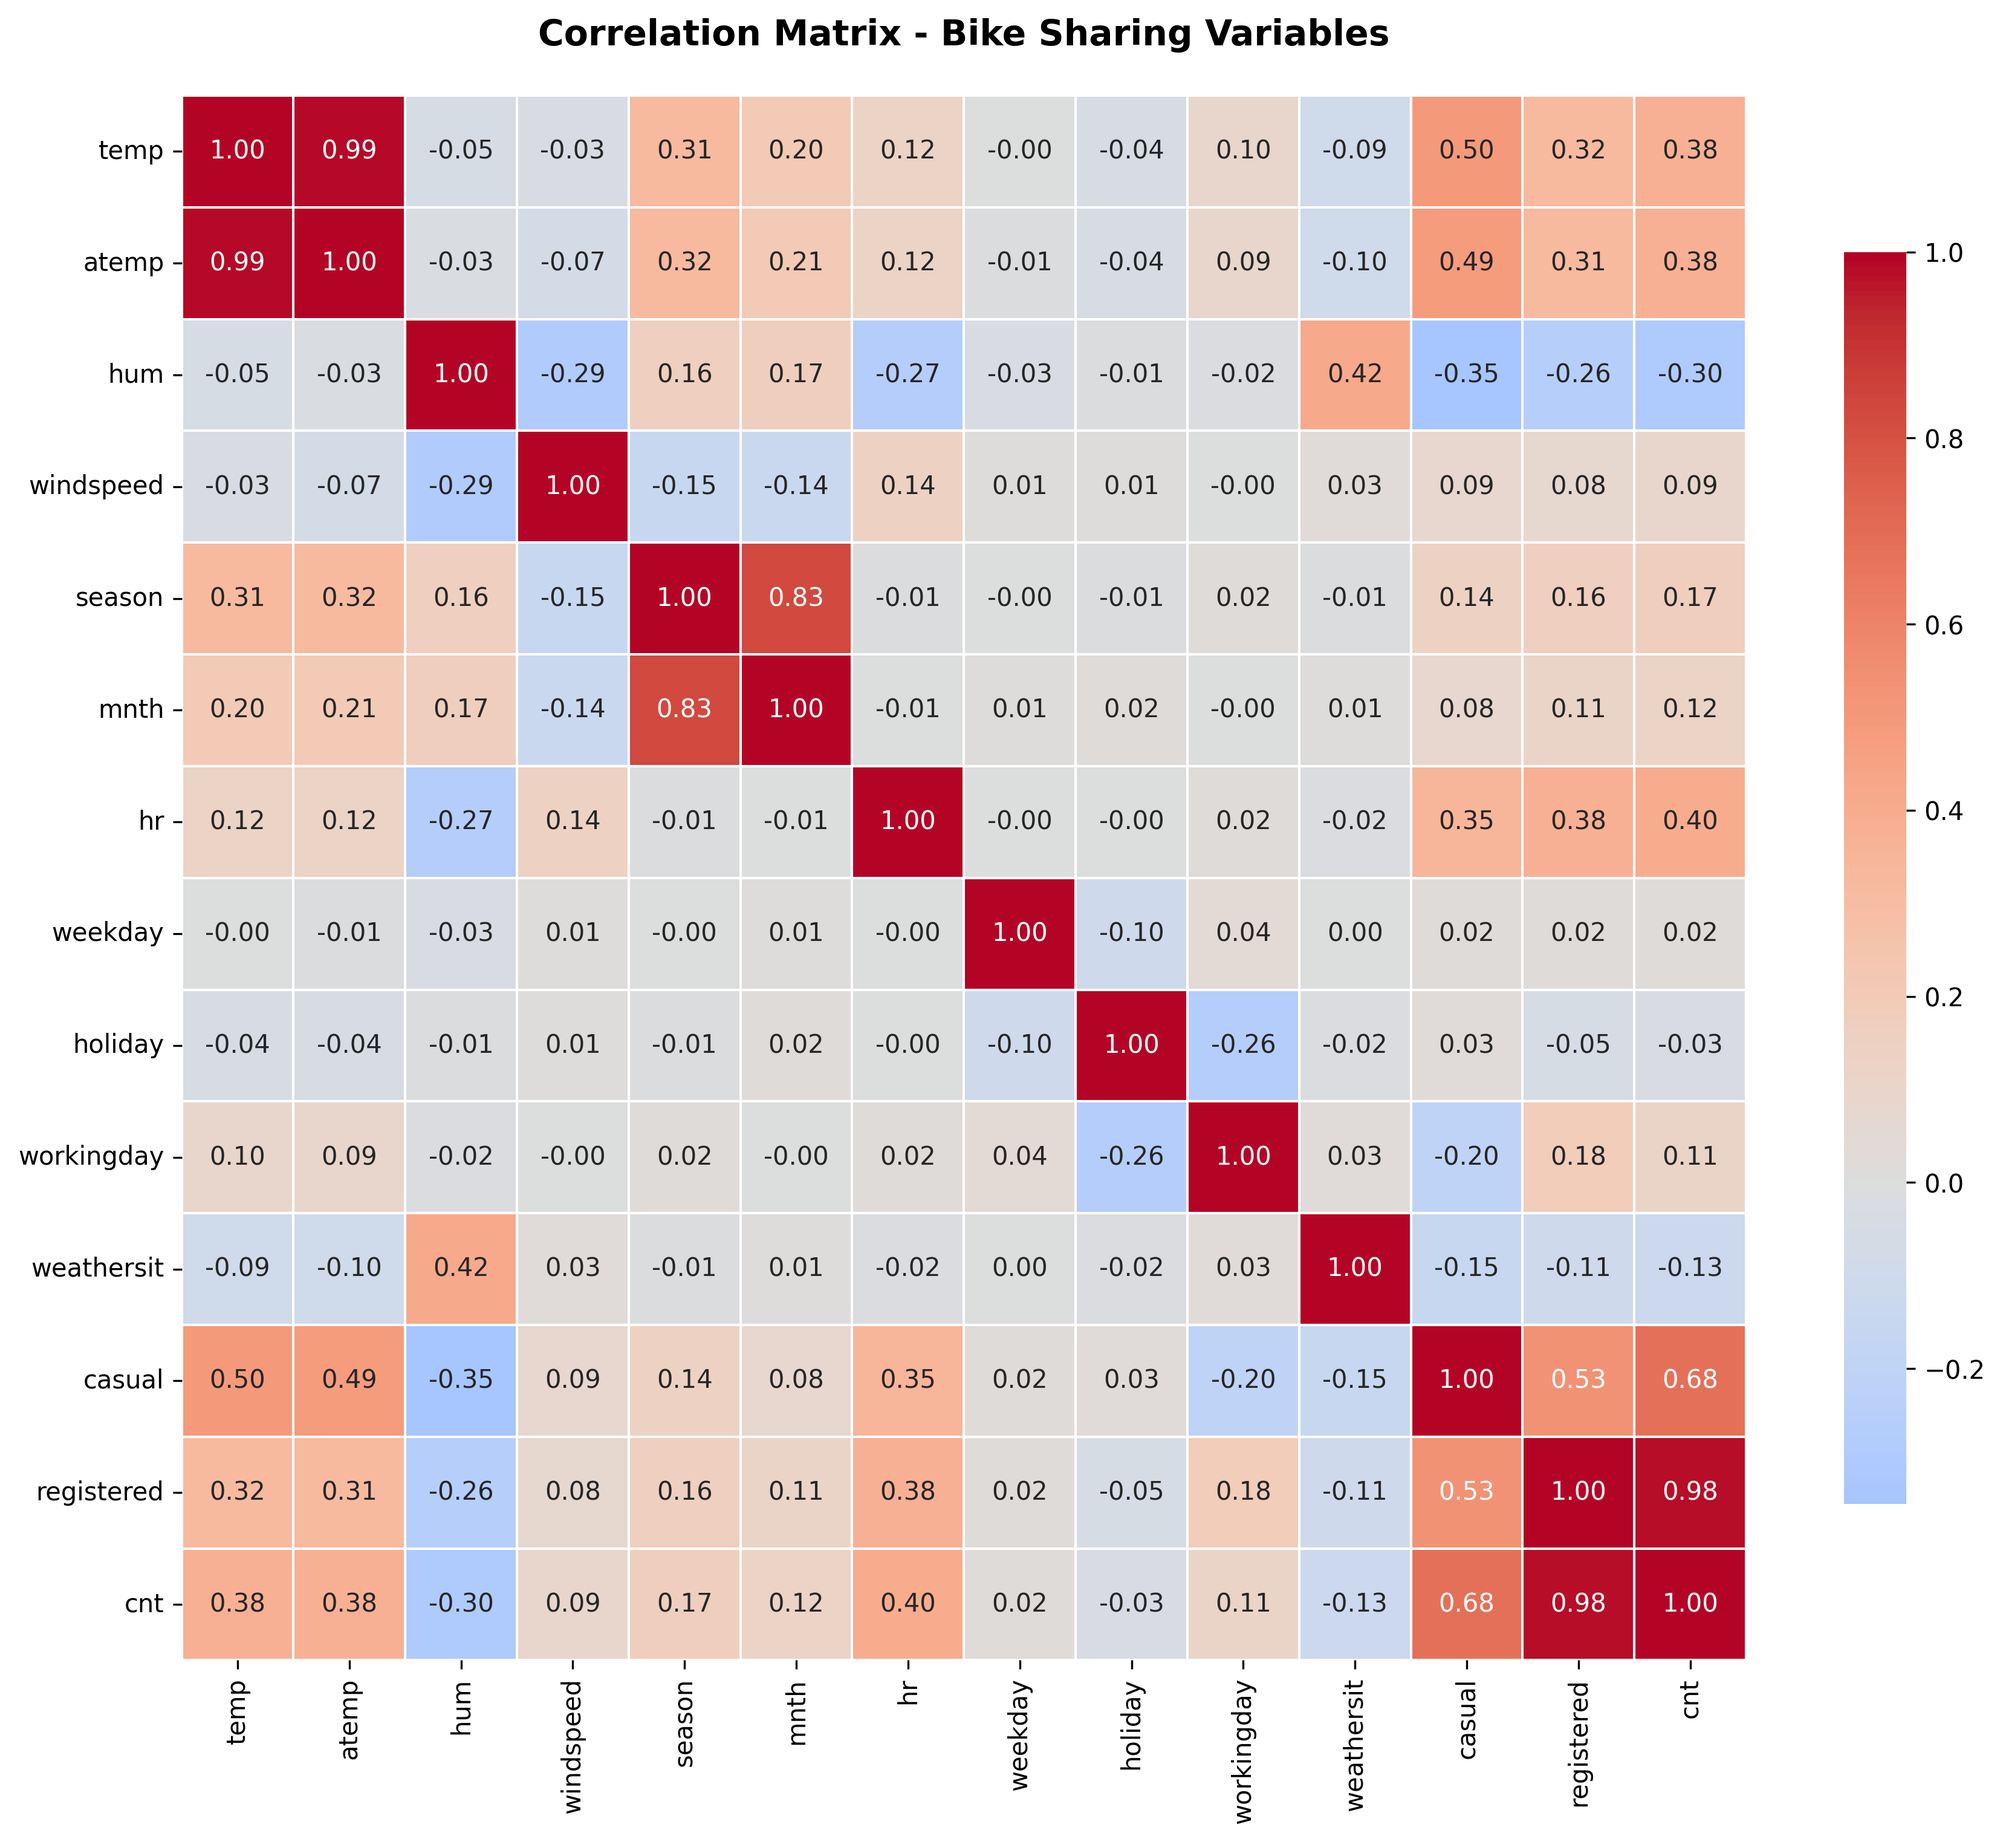
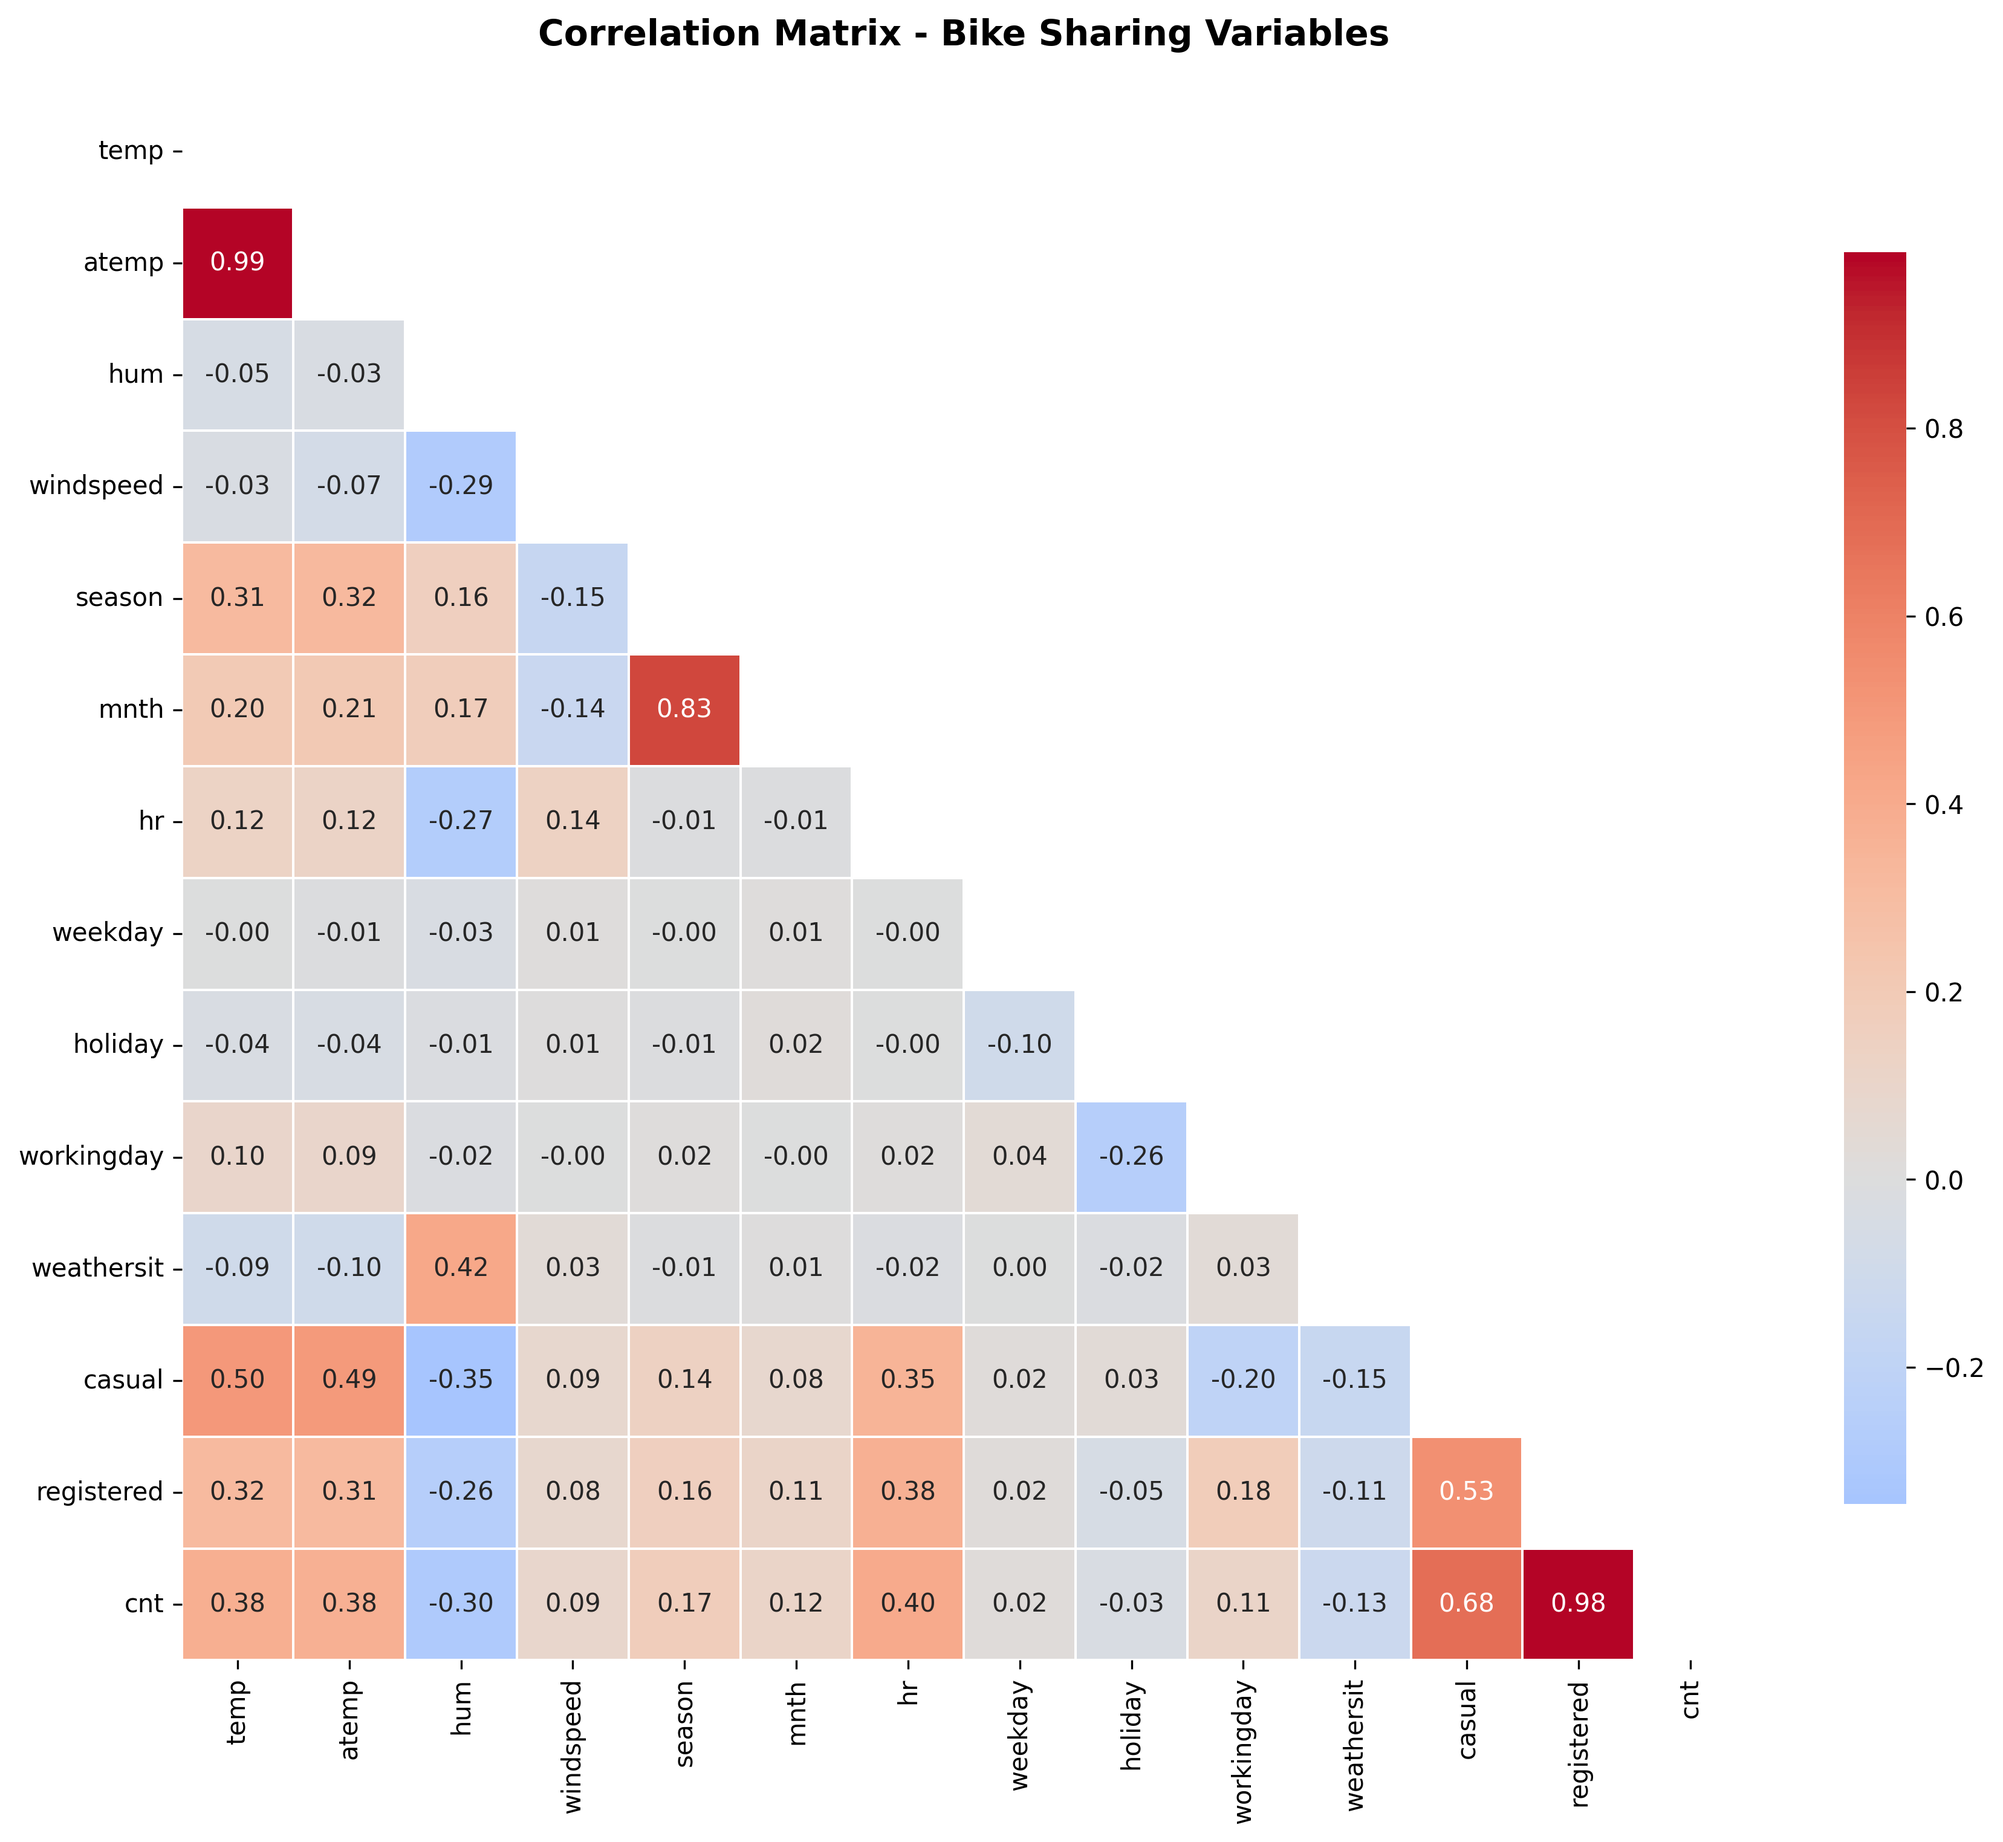
Added weathersit

diff --git a/MyFinalProject.py b/MyFinalProject.py
@@ -762,7 +762,7 @@ class CorrelationAnalyzer:
         print("Type: Linear Pearson correlation (continuous variables)")
         print()
         
-        env_vars = ['temp', 'atemp', 'hum', 'windspeed']
+        env_vars = ['temp', 'atemp', 'hum', 'windspeed', 'weathersit']
         target = 'cnt'
         
         results = []
@@ -872,10 +872,10 @@ class CorrelationAnalyzer:
         
         plt.figure(figsize=(12, 10))
 
-        # mask = np.triu(np.ones_like(self.correlation_matrix, dtype=bool))
+        mask = np.triu(np.ones_like(self.correlation_matrix, dtype=bool))
         
         sns.heatmap(self.correlation_matrix, 
-                    # mask=mask,
+                    mask=mask,
                     annot=True, 
                     fmt='.2f', 
                     cmap='coolwarm', 
